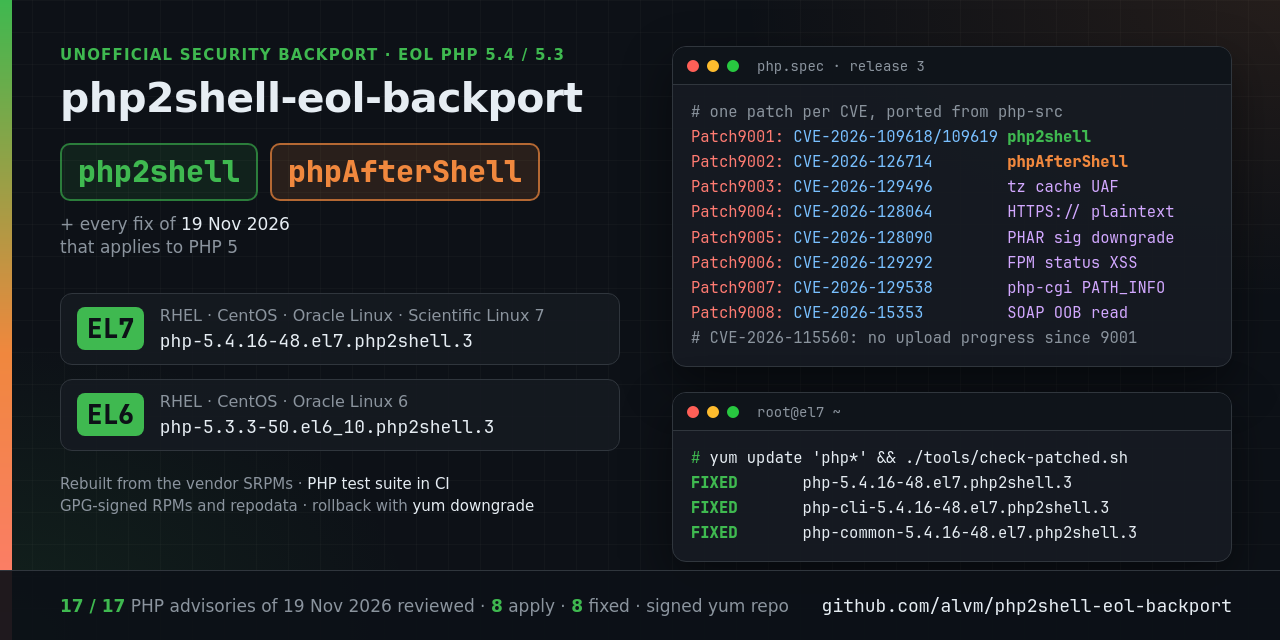
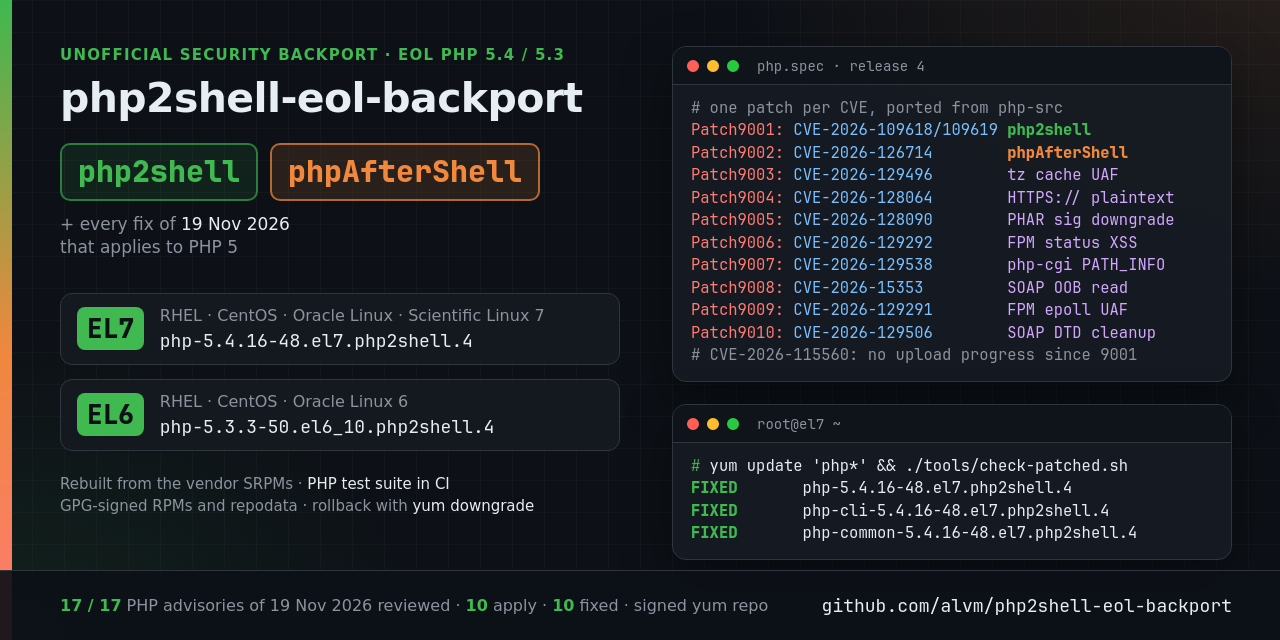
Release 4: fix CVE-2026-129291 and CVE-2026-129506 (EL6 / EL7), correct the review
Release 4 (.php2shell.4) adds two patches, each a port of the upstream commit:

- Patch9009, CVE-2026-129291 (high, PHP-FPM epoll use-after-free), php-src 13c4db29870: when a worker exits, the master removes the events of its stdout / stderr pipes before it closes them, and invalidates the descriptors.
- Patch9010, CVE-2026-129506 (medium, SOAP DTD cleanup), php-src 13a0f8c8c16: cleanup_xml_node() keeps the DTD node while it cleans up a parsed WSDL or schema document.

The review of release 3 listed both as not applicable. Red Hat fixed both in its RHEL 7 update of 22 Nov 2026 (php-5.4.16-48.el7_9.2, RHSA-2026:101337), so we checked the code again. CVE-2026-129291 was our mistake: PHP dates it to 8.1.20 because PHP 8 before 8.1.20 passed the worker's process ID to the stdio event handler, but the PHP 5.3 / 5.4 vendor code passes a pointer to the worker record, closes the pipes of an exited worker without removing their epoll events and frees the record at once. The first review relied on PHP's version statement and did not compare this. CVE-2026-129506 does not affect SOAP server requests on PHP 5.3 / 5.4, but the same cleanup runs when PHP loads WSDL and schema documents; it is ported for the same coverage as Red Hat.

- docs/REVIEW-PHP-2026-11-19.md: both CVEs fixed in release 4, new section "Correction in release 4" with the reason for the mistake and a counting error of the first version (its summary said 8 affected / 8 not applicable; its table had 7 / 9).
[…]

Changed region(s): [[0.5312, 0.1562, 0.9375, 0.5625], [0.5312, 0.625, 0.875, 0.8125], [0.0625, 0.9375, 0.625, 0.9688]]

diff --git a/docs/social-preview/social-preview.html b/docs/social-preview/social-preview.html
@@ -59,20 +59,20 @@
   .tname { margin-left: 10px; font-family: "JetBrains Mono", "JetBrainsMono Nerd Font", monospace;
            font-size: 14px; color: var(--muted); }
   pre { font-family: "JetBrains Mono", "JetBrainsMono Nerd Font", monospace; font-size: 15.5px;
-        line-height: 1.62; padding: 14px 18px 16px; white-space: pre; }
+        line-height: 1.45; padding: 12px 18px 14px; white-space: pre; }
   .c { color: var(--muted); }
   .k { color: var(--red); }
   .v { color: var(--blue); }
   .t1 { color: var(--green); font-weight: 800; }
   .t2 { color: var(--amber); font-weight: 800; }
   .t { color: var(--purple); }
-  .win2 { top: 392px; }
+  .win2 { top: 404px; }
   .ok { color: var(--green); font-weight: 800; }
   .p { color: var(--green); }
   .foot { position: absolute; left: 0; right: 0; bottom: 0; height: 70px; background: rgba(13,17,23,.92);
           border-top: 1px solid var(--line); display: flex; align-items: center; justify-content: space-between;
           padding: 0 48px 0 60px; }
-  .stat { font-size: 17px; color: var(--muted); }
+  .stat { font-size: 16px; color: var(--muted); }
   .stat b { color: var(--green); }
   .url { font-family: "JetBrains Mono", "JetBrainsMono Nerd Font", monospace; font-size: 18px; color: var(--fg); }
 </style>
@@ -92,12 +92,12 @@
     <div class="dist">
       <span class="el">EL7</span>
       <div><div class="os">RHEL · CentOS · Oracle Linux · Scientific Linux 7</div>
-           <div class="pkg">php-5.4.16-48.el7.php2shell.3</div></div>
+           <div class="pkg">php-5.4.16-48.el7.php2shell.4</div></div>
     </div>
     <div class="dist">
       <span class="el">EL6</span>
       <div><div class="os">RHEL · CentOS · Oracle Linux 6</div>
-           <div class="pkg">php-5.3.3-50.el6_10.php2shell.3</div></div>
+           <div class="pkg">php-5.3.3-50.el6_10.php2shell.4</div></div>
     </div>
   </div>
   <div class="how">Rebuilt from the vendor SRPMs · <b>PHP test suite in CI</b><br>GPG-signed RPMs and repodata · rollback with <b>yum downgrade</b></div>
@@ -106,7 +106,7 @@
 <div class="win">
   <div class="tbar">
     <span class="dot" style="background:#ff5f57"></span><span class="dot" style="background:#febc2e"></span><span class="dot" style="background:#28c840"></span>
-    <span class="tname">php.spec · release 3</span>
+    <span class="tname">php.spec · release 4</span>
   </div>
 <pre><span class="c"># one patch per CVE, ported from php-src</span>
 <span class="k">Patch9001:</span> <span class="v">CVE-2026-109618/109619</span> <span class="t1">php2shell</span>
@@ -117,6 +117,8 @@
 <span class="k">Patch9006:</span> <span class="v">CVE-2026-129292</span>        <span class="t">FPM status XSS</span>
 <span class="k">Patch9007:</span> <span class="v">CVE-2026-129538</span>        <span class="t">php-cgi PATH_INFO</span>
 <span class="k">Patch9008:</span> <span class="v">CVE-2026-15353</span>         <span class="t">SOAP OOB read</span>
+<span class="k">Patch9009:</span> <span class="v">CVE-2026-129291</span>        <span class="t">FPM epoll UAF</span>
+<span class="k">Patch9010:</span> <span class="v">CVE-2026-129506</span>        <span class="t">SOAP DTD cleanup</span>
 <span class="c"># CVE-2026-115560: no upload progress since 9001</span></pre>
 </div>
 
@@ -126,13 +128,13 @@
     <span class="tname">root@el7 ~</span>
   </div>
 <pre><span class="p">#</span> yum update 'php*' &amp;&amp; ./tools/check-patched.sh
-<span class="ok">FIXED</span>       php-5.4.16-48.el7.php2shell.3
-<span class="ok">FIXED</span>       php-cli-5.4.16-48.el7.php2shell.3
-<span class="ok">FIXED</span>       php-common-5.4.16-48.el7.php2shell.3</pre>
+<span class="ok">FIXED</span>       php-5.4.16-48.el7.php2shell.4
+<span class="ok">FIXED</span>       php-cli-5.4.16-48.el7.php2shell.4
+<span class="ok">FIXED</span>       php-common-5.4.16-48.el7.php2shell.4</pre>
 </div>
 
 <div class="foot">
-  <div class="stat"><b>17 / 17</b> PHP advisories of 19 Nov 2026 reviewed · <b>8</b> apply · <b>8</b> fixed · signed yum repo</div>
+  <div class="stat"><b>17 / 17</b> PHP advisories of 19 Nov 2026 reviewed · <b>10</b> apply · <b>10</b> fixed · signed yum repo</div>
   <div class="url">github.com/alvm/php2shell-eol-backport</div>
 </div>
 </body>

diff --git a/docs/REVIEW-PHP-2026-11-19.md b/docs/REVIEW-PHP-2026-11-19.md
@@ -6,9 +6,11 @@ lists every one of them and says, for the two packages of this project, whether 
 - EL7: `php-5.4.16-48.el7` (RHEL / CentOS / Oracle Linux / Scientific Linux 7)
 - EL6: `php-5.3.3-50.el6_10` (RHEL / CentOS / Oracle Linux 6)
 
-**In short:** 8 of the 17 issues affect these packages. All 8 are fixed: phpAfterShell (CVE-2026-126714) in release 2,
-the other 7 in release 3. One more, CVE-2026-115560, is already closed by release 1. The other 8 do not apply,
-because the code they fix does not exist in PHP 5.3 / 5.4.
+**In short:** 8 of the 17 issues affect these packages, and a 9th (CVE-2026-129506) has its defect only in a path
+that PHP does not count as a security issue. All 9 are fixed: phpAfterShell (CVE-2026-126714) in release 2, 6 in
+release 3, and CVE-2026-129291 and CVE-2026-129506 in release 4 (see
+[Correction in release 4](#correction-in-release-4)). One more, CVE-2026-115560, is already closed by release 1. The
+other 7 do not apply, because the code they fix does not exist in PHP 5.3 / 5.4.
 
 ## How we checked
 
@@ -35,11 +37,11 @@ commit, changed only where the PHP 5 API differs, and each port is a separate pa
 | CVE-2026-128064 | [GHSA-f6gg-rchx-xw8j](https://github.com/php/php-src/security/advisories/GHSA-f6gg-rchx-xw8j) | high | mixed-case HTTPS / FTPS URLs sent in plaintext | affected | affected | **fixed in release 3** |
 | CVE-2026-128090 | [GHSA-68fq-fh7h-f8gr](https://github.com/php/php-src/security/advisories/GHSA-68fq-fh7h-f8gr) | high | PHAR OpenSSL signature downgrade | affected | affected | **fixed in release 3** |
 | CVE-2026-127960 | [GHSA-mmf9-xm3v-hg2x](https://github.com/php/php-src/security/advisories/GHSA-mmf9-xm3v-hg2x) | high | slow parsing of folded HTTP response headers | not affected | not affected | not applicable |
-| CVE-2026-129291 | [GHSA-jm4m-qfqx-967m](https://github.com/php/php-src/security/advisories/GHSA-jm4m-qfqx-967m) | high | PHP-FPM epoll use-after-free | not affected | not affected | not applicable |
+| CVE-2026-129291 | [GHSA-jm4m-qfqx-967m](https://github.com/php/php-src/security/advisories/GHSA-jm4m-qfqx-967m) | high | PHP-FPM epoll use-after-free | affected | affected | **fixed in release 4** |
 | CVE-2026-129292 | [GHSA-3mg3-cr28-46gc](https://github.com/php/php-src/security/advisories/GHSA-3mg3-cr28-46gc) | medium | PHP-FPM status page XSS | affected | affected | **fixed in release 3** |
 | CVE-2026-129538 | [GHSA-5j3f-64r7-f564](https://github.com/php/php-src/security/advisories/GHSA-5j3f-64r7-f564) | medium | php-cgi `PATH_INFO` out-of-bounds read and write | affected | affected | **fixed in release 3** |
 | CVE-2026-15353 | [GHSA-q23r-hr55-xmpg](https://github.com/php/php-src/security/advisories/GHSA-q23r-hr55-xmpg) | medium | SOAP out-of-bounds read on an empty array size | affected | affected | **fixed in release 3** |
-| CVE-2026-129506 | [GHSA-4646-p932-gw34](https://github.com/php/php-src/security/advisories/GHSA-4646-p932-gw34) | medium | SOAP use-after-free with DTD entity references | not affected | not affected | not applicable |
+| CVE-2026-129506 | [GHSA-4646-p932-gw34](https://github.com/php/php-src/security/advisories/GHSA-4646-p932-gw34) | medium | SOAP use-after-free with DTD entity references | WSDL / schema loading only | WSDL / schema loading only | **fixed in release 4** |
 | CVE-2026-129438 | [GHSA-mg3p-mxj9-g2mm](https://github.com/php/php-src/security/advisories/GHSA-mg3p-mxj9-g2mm) | medium | RFC 3986 URI serialization | not affected | not affected | not applicable |
 | CVE-2026-129501 | [GHSA-x8r7-mg3g-74hg](https://github.com/php/php-src/security/advisories/GHSA-x8r7-mg3g-74hg) | medium | double free in DOM XML serialization | not affected | not affected | not applicable |
 
@@ -54,6 +56,8 @@ commit, changed only where the PHP 5 API differs, and each port is a separate pa
 | CVE-2026-129292 | [37abd0a7f7b](https://github.com/php/php-src/commit/37abd0a7f7b444ad8f9fb1b5c7993488b1cf5fb3) | Patch9006 | The HTML and XML full status of PHP-FPM escapes the request method, URI, query string, user and script name. |
 | CVE-2026-129538 | [1e109bfbd2f](https://github.com/php/php-src/commit/1e109bfbd2f80367882f9866dbc6aa8088f0551f) | Patch9007 | php-cgi rewrites `PATH_INFO` only when it is longer than the suffix it strips. |
 | CVE-2026-15353 | [382d2494805](https://github.com/php/php-src/commit/382d24948058d1d586ea48c549a65eb41ac531c6) | Patch9008 | An empty SOAP array size counts as one dimension. |
+| CVE-2026-129291 | [13c4db29870](https://github.com/php/php-src/commit/13c4db2987098737278ef78849bb791866021c3c) | Patch9009 | When a worker exits, the PHP-FPM master removes the events of its stdout / stderr pipes before it closes them, and invalidates the descriptors. |
+| CVE-2026-129506 | [13a0f8c8c16](https://github.com/php/php-src/commit/13a0f8c8c1634d80de1a42016390b1bc3bd6e470) | Patch9010 | The SOAP extension keeps the DTD node while it cleans up a parsed WSDL or schema document. |
 
 Notes on the ports:
 
@@ -73,6 +77,33 @@ Notes on the ports:
   had kept it. php-cgi is in the `php-cli` package and is used when a web server runs PHP through CGI or FastCGI with
   `php-cgi`.
 
+## Correction in release 4
+
+The first version of this review (release 3) listed CVE-2026-129291 and CVE-2026-129506 as not applicable. On 22 Nov
+2026 Red Hat fixed both in its RHEL 7 update (`php-5.4.16-48.el7_9.2`, RHSA-2026:101337), so we checked the code
+again.
+
+- **CVE-2026-129291 was a mistake on our side.** PHP dates the issue to 8.1.20, because in PHP 8 before 8.1.20 the
+  stdout / stderr events of a worker carried its process ID, and the handler looked the worker up and did nothing
+  when it was gone. The PHP 5.3 / 5.4 vendor code is different: the event carries a pointer to the worker record, as
+  in 8.1.20 and later. When a worker exits, `fpm_child_close()` closes its pipes without removing their epoll events
+  and frees the record at once, and a new worker switches to the pool user before it closes the pipes that it
+  inherited from the master. So the use-after-free of the advisory exists in both packages. It requires local code
+  execution in a PHP-FPM worker and `catch_workers_output = yes`, which the vendor `php-fpm.d/www.conf` leaves
+  commented out (off). Release 4 ports the upstream fix.
+
+  Why we got it wrong: the first review relied on PHP's statement that the affected delayed-cleanup path was
+  introduced in 8.1.20, saw that PHP-FPM 5.3 / 5.4 has no delayed cleanup, and stopped there. It did not compare how
+  the event handler finds the worker, which is the part that decides whether freed memory is used.
+- **CVE-2026-129506 stays as described for SOAP server requests:** PHP 5.3 / 5.4 parse them without the cleanup that
+  removes the DTD, and reject them when they have one. The same cleanup does run when PHP loads a WSDL or schema
+  document, so the defect exists there. PHP does not count untrusted WSDL or schema documents as a security issue,
+  but Red Hat fixed it for RHEL 7 (rated Low), and release 4 ports the fix for the same coverage.
+- **A counting error:** the summary of the first version said that 8 issues affect the packages (1 fixed in release 2,
+  7 in release 3) and that 8 do not apply. By the results table of that version, 7 were affected (1 in release 2, 6 in
+  release 3) and 9 did not apply; the two errors cancelled out in the total of 17. The summary above has the corrected
+  numbers for release 4.
+
 ## Closed earlier: CVE-2026-115560
 
 The issue is in session upload progress, which "was introduced in PHP 5.4.0". Release 1 disables session upload
@@ -84,13 +115,11 @@ well".
 
 | CVE | Why PHP 5.3 / 5.4 are not affected |
 |---|---|
-| CVE-2026-129289 | PHP: the affected code "has been present since PHP 5.6.0", which made reading `php://input` lazy. In PHP 5.3 / 5.4, request shutdown always reads and discards a request body that was not read in full, and a body that is read is read to its `Content-Length`, so no unread bytes stay on a FastCGI connection. Red Hat's VEX data lists RHEL 6 and 7 as affected; the code does not support that. |
+| CVE-2026-129289 | PHP: the affected code "has been present since PHP 5.6.0", which made reading `php://input` lazy. In PHP 5.3 / 5.4, request shutdown always reads and discards a request body that was not read in full, and a body that is read is read to its `Content-Length`, so no unread bytes stay on a FastCGI connection. Red Hat's VEX data lists RHEL 6 and 7 as affected, and its RHEL 7 update of 22 Nov 2026 does not fix it either; the code does not support that it applies. |
 | CVE-2026-129481 | PHP: "The affected field was introduced in PHP 8.3.0" (the file and line where a session was started). PHP 5 does not have it. |
 | CVE-2026-129182 | PHP: "The affected global was introduced in PHP 8.5.0 by fatal error backtraces." PHP 5 has neither. |
 | CVE-2026-129474 | PHP: the attack path "was introduced in PHP 8.5.0 by fatal error backtraces". The underlying error is in how PHP 7 and later enter a method handled by `__call()`; PHP 5 handles these calls differently and has no fatal error backtraces. With release 1, a `memory_limit` error also ends the process at once. |
-| CVE-2026-127960 | PHP: "The affected code was introduced by the fix for GHSA-v8xr-gpvj-cx9g, first released in PHP 8.1.32". The http wrapper of PHP 5 does not have this header folding code. Red Hat's VEX data (20 Nov 2026) lists RHEL 6 and 7 as affected; the vendor code of both packages does not support that. |
-| CVE-2026-129291 | PHP: "The affected delayed-cleanup path was introduced by the fix for GH-10461, first released in PHP 8.1.20 and 8.2.7." PHP-FPM 5.3 / 5.4 frees a worker at once and has no delayed cleanup. Red Hat's VEX data (20 Nov 2026) lists RHEL 6 and 7 as affected; the vendor code of both packages does not support that. |
-| CVE-2026-129506 | PHP: "SOAP server requests have been affected since PHP 5.6.0". From 5.6 the SOAP server reads the request through a parser path that also runs a cleanup which removes the DTD. PHP 5.3 / 5.4 parse the request without that cleanup, so the DTD stays and the server rejects the request with "DTD are not supported by SOAP". The cleanup runs only when PHP loads a WSDL or schema document, and PHP states that "loading an untrusted WSDL or schema is not considered a security issue". Red Hat's VEX data (20 Nov 2026) lists RHEL 6 and 7 as affected; for SOAP server requests the vendor code of both packages does not support that. |
+| CVE-2026-127960 | PHP: "The affected code was introduced by the fix for GHSA-v8xr-gpvj-cx9g, first released in PHP 8.1.32". The http wrapper of PHP 5 does not have this header folding code. Red Hat's VEX data listed RHEL 6 and 7 as affected on 20 Nov 2026; since 22 Nov it lists RHEL 7 as not affected. |
 | CVE-2026-129438 | Affects the `Uri\Rfc3986\Uri` class of PHP 8.5. PHP 5 has no URI extension. |
 | CVE-2026-129501 | Affects the `Dom\XMLDocument` and `Dom\HTMLDocument` classes of PHP 8.4. PHP 5 has only the legacy `DOMDocument`, which "does not use this serializer". |
 

diff --git a/README.md b/README.md
@@ -3,8 +3,8 @@
 ![php2shell-eol-backport: fixes for php2shell, phpAfterShell and the other PHP vulnerabilities of 19 Nov 2026 for the PHP 5.4 / 5.3 packages of EL7 / EL6](docs/social-preview/social-preview.png)
 
 Unofficial backport of the official fixes for **CVE-2026-109618** and **CVE-2026-109619** ("php2shell") and,
-since release 2, **CVE-2026-126714** ("phpAfterShell") and, since release 3, all other issues of the PHP security
-releases of 19 November 2026 that apply to PHP 5 to the end-of-life PHP packages of **Enterprise Linux 6 and 7**:
+since release 2, **CVE-2026-126714** ("phpAfterShell") and, since releases 3 and 4, all other issues of the PHP
+security releases of 19 November 2026 that apply to PHP 5 to the end-of-life PHP packages of **Enterprise Linux 6 and 7**:
 `php-5.3.3` (RHEL / CentOS / Oracle Linux 6) and `php-5.4.16` (RHEL / CentOS / Oracle Linux / Scientific Linux 7).
 Which of these CVEs affect PHP 5 is explained in [How serious is this on PHP 5?](#how-serious-is-this-on-php-5),
 [phpAfterShell (CVE-2026-126714) and CVE-2026-115560](#phpaftershell-cve-2026-126714-and-cve-2026-115560) and
@@ -12,7 +12,8 @@ Which of these CVEs affect PHP 5 is explained in [How serious is this on PHP 5?]
 
 PHP fixed php2shell on 21 Oct 2026 in 8.2.35, 8.3.36, 8.4.27 and 8.5.12, and published source backports for
 7.4, 8.0 and 8.1. Nothing was released for PHP 5. Red Hat and Oracle later shipped a fix for CVE-2026-109619 in
-PHP 5.4 to their paid RHEL 7 / Oracle Linux 7 extended support customers only; there is no vendor fix for EL6
+PHP 5.4 to their paid RHEL 7 / Oracle Linux 7 extended support customers only, and on 22 Nov 2026 Red Hat
+shipped the fixes of 19 Nov for RHEL 7 extended support too; there is no vendor fix for EL6
 (see [docs/ALTERNATIVES.md](docs/ALTERNATIVES.md)). If you have to keep such a system running, this project
 gives you rebuilt vendor packages with a port of the official minimal fix.
 
@@ -32,28 +33,37 @@ gives you rebuilt vendor packages with a port of the official minimal fix.
   ("phpAfterShell", CVSS 4.0 9.2): a port of php-src commit
   [41c0941ae27](https://github.com/php/php-src/commit/41c0941ae27d1033129e0e09ce3af034ffee86ba)
   ("Fix GHSA-fm2m-fjf5-v3cp: RCE via corrupted session file"), as a second, separate patch.
-- Release 3 adds the six other issues of 19 November 2026 that apply to PHP 5, one patch each, ported from the
+- Release 3 adds six more issues of 19 November 2026 that apply to PHP 5, one patch each, ported from the
   upstream commits: CVE-2026-129496 (critical, timezone cache use-after-free), CVE-2026-128064 (high, mixed-case
   HTTPS / FTPS URLs sent in plaintext), CVE-2026-128090 (high, PHAR signature downgrade), CVE-2026-129292
   (medium, PHP-FPM status page XSS), CVE-2026-129538 (medium, php-cgi `PATH_INFO`) and CVE-2026-15353 (medium,
   SOAP out-of-bounds read). The full review of all 17 advisories, with the reasons why the others do not apply,
   is in [docs/REVIEW-PHP-2026-11-19.md](docs/REVIEW-PHP-2026-11-19.md).
+- Release 4 adds CVE-2026-129291 (high, PHP-FPM epoll use-after-free, php-src
+  [13c4db29870](https://github.com/php/php-src/commit/13c4db2987098737278ef78849bb791866021c3c)) and CVE-2026-129506 (medium, SOAP DTD cleanup,
+  php-src [13a0f8c8c16](https://github.com/php/php-src/commit/13a0f8c8c1634d80de1a42016390b1bc3bd6e470)). The first review listed both as not
+  applicable. Red Hat fixed both in its RHEL 7 update of 22 Nov 2026, so we checked the code again: we were wrong
+  about CVE-2026-129291, and for CVE-2026-129506 the fix matters only when PHP loads a WSDL or schema document. See
+  [the correction](docs/REVIEW-PHP-2026-11-19.md#correction-in-release-4).
 - The patches are made against the vendor source trees. They do not apply to the plain `php-5.4.16` /
   `php-5.3.3` release tarballs, which lack the vendor's later security fixes in the same code
   (for example CVE-2015-4024 in multipart header parsing).
 
 | Distribution | Vendor package | Fixed package from this project |
 |---|---|---|
-| RHEL / CentOS / Oracle Linux / Scientific Linux 7 | `php-5.4.16-48.el7` | `php-5.4.16-48.el7.php2shell.3` |
-| RHEL / CentOS / Oracle Linux 6 | `php-5.3.3-50.el6_10` | `php-5.3.3-50.el6_10.php2shell.3` |
+| RHEL / CentOS / Oracle Linux / Scientific Linux 7 | `php-5.4.16-48.el7` | `php-5.4.16-48.el7.php2shell.4` |
+| RHEL / CentOS / Oracle Linux 6 | `php-5.3.3-50.el6_10` | `php-5.3.3-50.el6_10.php2shell.4` |
 
-Release 1 (`.php2shell.1`) has the php2shell fix only, release 2 (`.php2shell.2`) adds phpAfterShell.
+Release 1 (`.php2shell.1`) has the php2shell fix only, release 2 (`.php2shell.2`) adds phpAfterShell, release 3
+(`.php2shell.3`) the other fixes of 19 Nov 2026 except CVE-2026-129291 and CVE-2026-129506.
 
 The release suffix sorts above the vendor package, and below vendor errata, so an official fix replaces
 this one with a normal update. This now matters on EL7: the extended support updates of Red Hat
-(`php-5.4.16-48.el7_9.1`) and Oracle (`php-5.4.16-48.0.1.el7`) sort above this project's packages. If your
-system gets updates from such a channel, `yum update` replaces them with the vendor package. That package fixes
-CVE-2026-109619, but as of 20 Nov 2026 not CVE-2026-126714 (phpAfterShell) or the issues fixed in release 3.
+(`php-5.4.16-48.el7_9.1` and `…el7_9.2`) and Oracle (`php-5.4.16-48.0.1.el7`) sort above this project's packages.
+If your system gets updates from such a channel, `yum update` replaces them with the vendor package. As of
+23 Nov 2026, Red Hat's `php-5.4.16-48.el7_9.2` ([RHSA-2026:101337](https://access.redhat.com/errata/RHSA-2026:101337))
+fixes the issues of 19 Nov 2026 that apply to PHP 5.4, and Oracle's `php-5.4.16-48.0.1.el7` fixes only
+CVE-2026-109619.
 
 ### How serious is this on PHP 5?
 
@@ -144,8 +154,9 @@ packages ([full review](docs/REVIEW-PHP-2026-11-19.md)):
 |---|---|
 | fixed in release 2 | CVE-2026-126714 (phpAfterShell) |
 | fixed in release 3 | CVE-2026-129496, CVE-2026-128064, CVE-2026-128090, CVE-2026-129292, CVE-2026-129538, CVE-2026-15353 |
+| fixed in release 4 | CVE-2026-129291, CVE-2026-129506 (WSDL and schema loading) |
 | closed by release 1 (EL7) / not present (EL6) | CVE-2026-115560 |
-| not applicable: the code does not exist in PHP 5 | CVE-2026-129289, CVE-2026-129481, CVE-2026-129182, CVE-2026-129474, CVE-2026-127960, CVE-2026-129291, CVE-2026-129506, CVE-2026-129438, CVE-2026-129501 |
+| not applicable: the code does not exist in PHP 5 | CVE-2026-129289, CVE-2026-129481, CVE-2026-129182, CVE-2026-129474, CVE-2026-127960, CVE-2026-129438, CVE-2026-129501 |
 
 Red Hat's bulletin [RHSB-2026-020](https://access.redhat.com/security/vulnerabilities/RHSB-2026-020) covers the
 seven critical ones. Two of them need a closer look on PHP 5:
@@ -186,6 +197,11 @@ The repository contains only the PHP packages of this project, and both the pack
 metadata are signed (`gpgcheck=1`, `repo_gpgcheck=1`). The RPMs and source RPMs are also attached to each
 [release](https://github.com/alvm/php2shell-eol-backport/releases), with a signed `SHA256SUMS`; install them
 with `yum localinstall`.
+
+To roll back to the vendor packages, run `yum downgrade` for the installed PHP packages and restart the services.
+yum needs the vendor version of every installed PHP package: on EL7 some of them, for example `php-fpm`,
+`php-mbstring` and `php-mysqlnd`, come from the optional repository (`ol7_optional_latest` on Oracle Linux 7,
+`rhel-7-server-optional-rpms` on RHEL 7), which must be enabled for the downgrade.
 
 ## Check a system
 
@@ -255,6 +271,11 @@ This is a minimal mitigation of the published attack paths, not a full security 
   request to an `HTTPS://` URL changed from plaintext `GET` to a TLS handshake (CVE-2026-128064), and a SHA1-signed
   phar next to a `.pubkey` file changed from opened to rejected (CVE-2026-128090). The other three fixes were
   checked by code review against the upstream commits and by the test suite.
+
+- Release 4 has exactly the same failed tests as release 3 on both EL6 and EL7. Its two patches are the same lines
+  as the upstream commits. In clean containers, after an update from release 3, PHP-FPM with
+  `catch_workers_output = yes` kept running through repeated kills of its workers, and `SoapClient` loaded a WSDL
+  document with a `DOCTYPE`. These are regression checks of the changed code paths, not tests of the vulnerabilities.
 
 - The PHP 5.4 patch was compared with an independent port of the same fix for Amazon Linux 2's `php-5.4.16`:
   the core changes are identical. The differences are listed in [docs/ALTERNATIVES.md](docs/ALTERNATIVES.md).

diff --git a/docs/ALTERNATIVES.md b/docs/ALTERNATIVES.md
@@ -1,20 +1,21 @@
 # Alternatives and how this project compares
 
-Vendor status as of 20 November 2026 (CIQ: 23 October); community projects as of 23 October 2026. If something
+Vendor status as of 23 November 2026 (CIQ: 23 October); community projects as of 23 October 2026. If something
 here is out of date or wrong, please open an issue.
 
 ## Vendors: the stock EL6 / EL7 packages
 
 | Vendor | EL7 `php-5.4.16` | EL6 `php-5.3.3` | Notes |
 |---|---|---|---|
-| Red Hat | RHEL 7 extended support (ELS) only: `php-5.4.16-48.el7_9.1`, [RHSA-2026:88693](https://access.redhat.com/errata/RHSA-2026:88693) (23 Oct), fixes CVE-2026-109619 | no update | [RHSB-2026-013](https://access.redhat.com/security/vulnerabilities/RHSB-2026-013) (22 Oct): RHEL 7 is "Only affected by CVE-2026-109619 — In a default configuration, the version of PHP in use is vulnerable"; the CVE-2026-109618 code is not present. RHEL 6: affected by both, "Out of support scope". CVE-2026-126714 and CVE-2026-129496: the VEX data ([126714](https://security.access.redhat.com/data/csaf/v2/vex/2026/cve-2026-126714.json), [129496](https://security.access.redhat.com/data/csaf/v2/vex/2026/cve-2026-129496.json)) lists RHEL 7 as affected with no fix available; bulletin [RHSB-2026-020](https://access.redhat.com/security/vulnerabilities/RHSB-2026-020) |
-| Oracle | Oracle Linux 7 Extended Support only: `php-5.4.16-48.0.1.el7`, [ELSA-2026-88693](https://linux.oracle.com/errata/ELSA-2026-88693.html) (29 Oct), "Backport fix for CVE-2026-109619" | no update | the OL7 update is in the `ol7_x86_64_latest_ELS` channel, not on the public yum server (the source RPM is public). CVE-2026-126714 and CVE-2026-129496: nothing published |
+| Red Hat | RHEL 7 extended support (ELS) only: `php-5.4.16-48.el7_9.1`, [RHSA-2026:88693](https://access.redhat.com/errata/RHSA-2026:88693) (23 Oct), fixes CVE-2026-109619; `php-5.4.16-48.el7_9.2`, [RHSA-2026:101337](https://access.redhat.com/errata/RHSA-2026:101337) (22 Nov), fixes the issues of 19 Nov 2026 that apply to PHP 5.4 (all except CVE-2026-129289, which Red Hat lists as affected without a fix) | no update | [RHSB-2026-013](https://access.redhat.com/security/vulnerabilities/RHSB-2026-013) (22 Oct): RHEL 7 is "Only affected by CVE-2026-109619 — In a default configuration, the version of PHP in use is vulnerable"; the CVE-2026-109618 code is not present. RHEL 6: affected by both, "Out of support scope". For the issues of 19 Nov 2026 see bulletin [RHSB-2026-020](https://access.redhat.com/security/vulnerabilities/RHSB-2026-020) |
+| Oracle | Oracle Linux 7 Extended Support only: `php-5.4.16-48.0.1.el7`, [ELSA-2026-88693](https://linux.oracle.com/errata/ELSA-2026-88693.html) (29 Oct), "Backport fix for CVE-2026-109619" | no update | the OL7 update is in the `ol7_x86_64_latest_ELS` channel, not on the public yum server (the source RPM is public). Issues of 19 Nov 2026: nothing published yet |
 | TuxCare ELS (commercial) | php2shell fixed on 21 Oct 2026, `php-5.4.16-48.el7.tuxcare.els21` ([CLSA-2026:1792611997](https://errata.tuxcare.com/els_os/rhel7els/CLSA-2026-1792611997.html)) | php2shell fixed on 21 Oct 2026, `php-5.3.3-50.el6_10.tuxcare.ol.els27` ([CLSA-2026:1792611737](https://errata.tuxcare.com/els_os/oraclelinux6els/CLSA-2026-1792611737.html)) | subscription; builds for CentOS, RHEL and Oracle Linux. For CVE-2026-126714 see their [CVE tracker](https://cve.tuxcare.com/els/cve/CVE-2026-126714) |
 | CIQ Bridge (commercial, CentOS 7) | no fix planned | — | [KB article](https://kb.ciq.com/article/security-advisories/cve-php2shell-mitigation): "No patched PHP package will be available for Bridge" |
 
 The Red Hat and Oracle EL7 updates sort above this project's packages, so `yum update` replaces
-`.php2shell.N` with them on a system that gets updates from these extended support channels. Neither fixes
-CVE-2026-126714 (phpAfterShell) or CVE-2026-129496 yet.
+`.php2shell.N` with them on a system that gets updates from these extended support channels. Red Hat's
+`php-5.4.16-48.el7_9.2` covers the issues of 19 Nov 2026 that apply to PHP 5.4; Oracle's `php-5.4.16-48.0.1.el7`
+does not yet.
 
 If you already have a TuxCare subscription, use their packages: they come with vendor support and cover other
 vulnerabilities too. TuxCare describes the same design as this project ("disable the session upload progress
